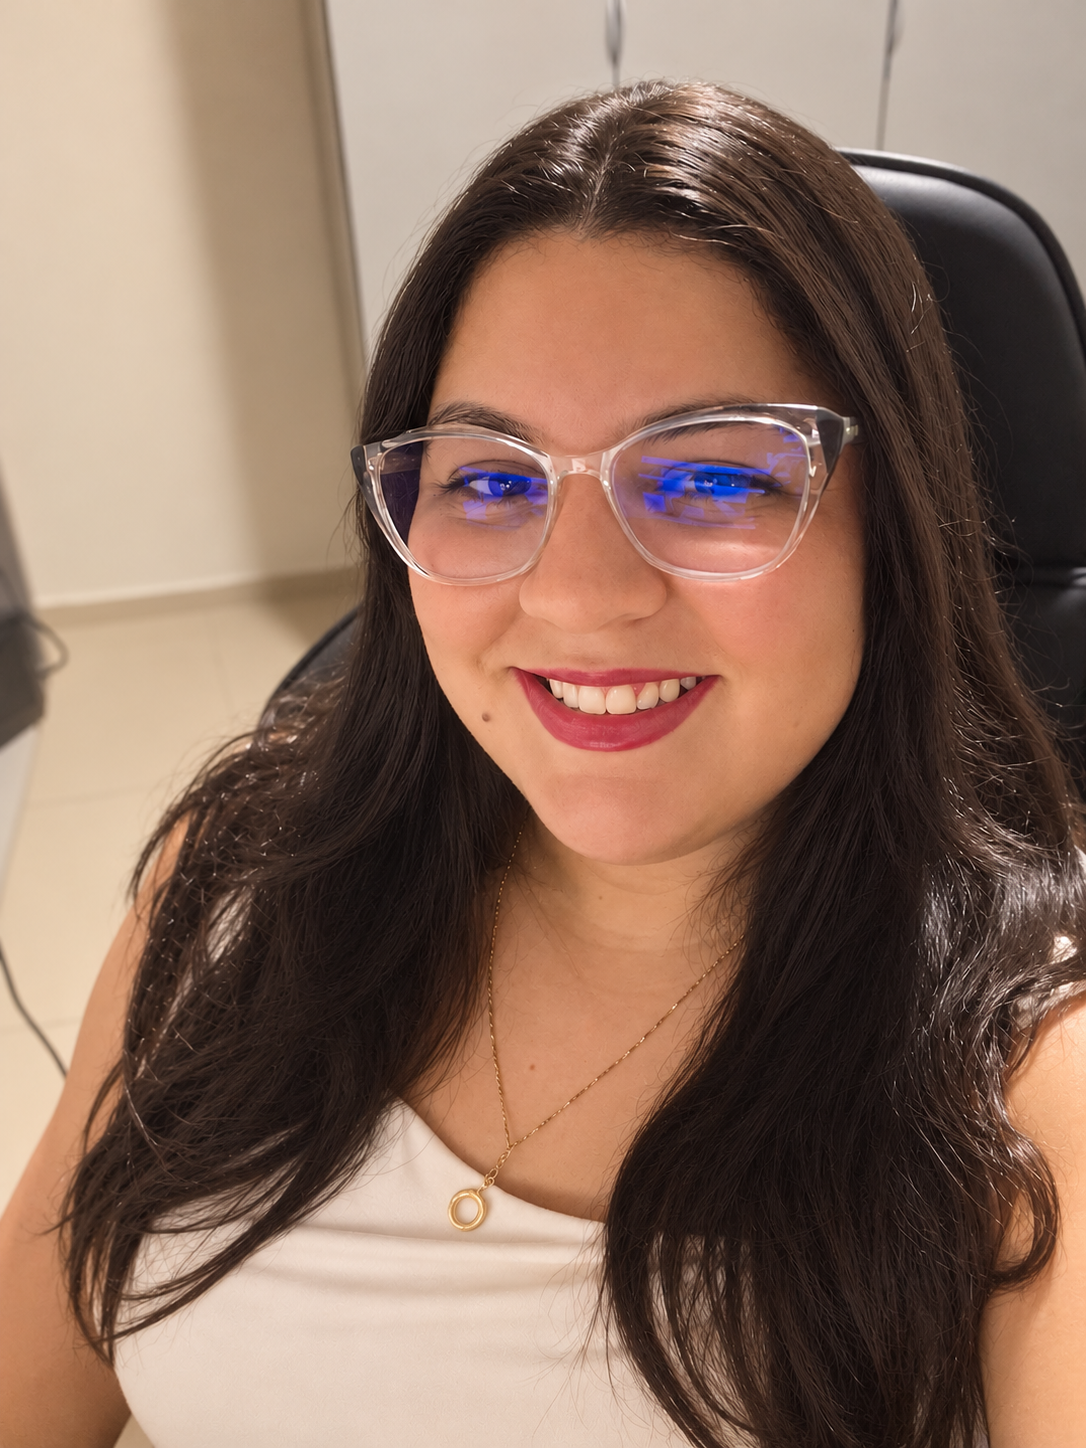
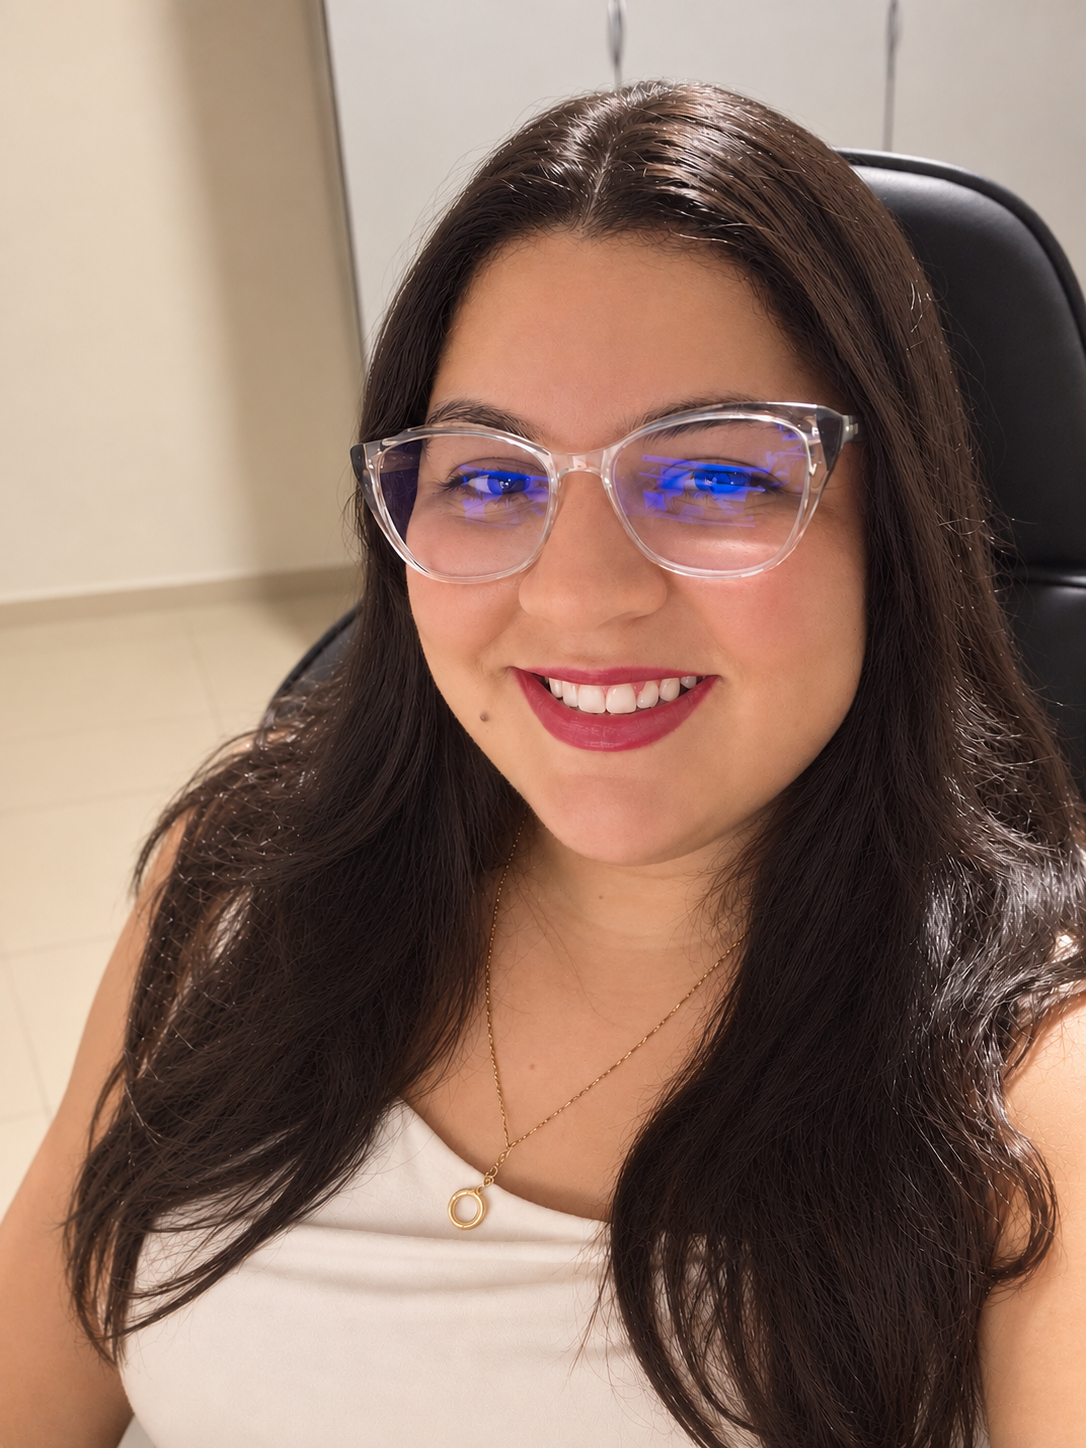
chore: Sync latest landing page updates

diff --git a/index.html b/index.html
@@ -118,7 +118,7 @@
             class="font-display text-base sm:text-xl font-bold tracking-tight text-sand-900 block leading-tight truncate">Psi.
             Laís Souza</span>
           <span class="text-[10px] sm:text-[11px] font-semibold text-sand-800/70 tracking-wide block truncate">CRP
-            13/13309 • TCC<span class="hidden sm:inline"> • Atendimento Online</span></span>
+            13/13309<span class="hidden sm:inline"> • Atendimento Online</span></span>
         </div>
       </a>
 
